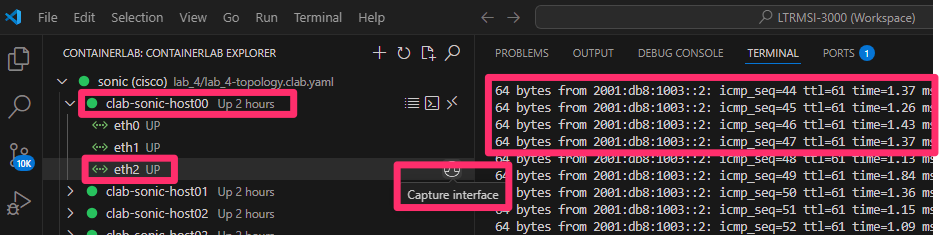
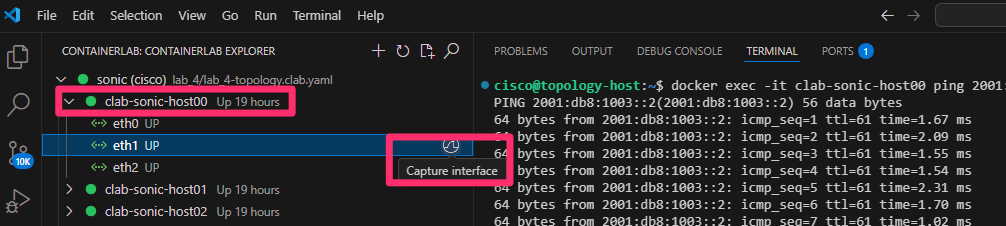
Lab4-fixes-diagrams-typos

diff --git a/lab_4/lab_4-guide.md b/lab_4/lab_4-guide.md
@@ -558,7 +558,7 @@ The containerlab topology file included a number of *`exec`* commands to be run 
     docker exec -it clab-sonic-host00 ping 2001:db8:1003::2 -i .3 -c 100
     ```
 
-    While the ping is running we can launch edgeshark using the visual code containerlab extension and inspect the traffic on the eth2 interface. Note the traffic is not SRv6 encapsulated at this time:
+    While the ping is running we can launch edgeshark using the visual code containerlab extension and inspect the traffic on the eth1 interface. Note the traffic is not SRv6 encapsulated at this time:
 
     ![edgeshark-host00](../topo_drawings/lab4-host00-edgeshark.png)
 
